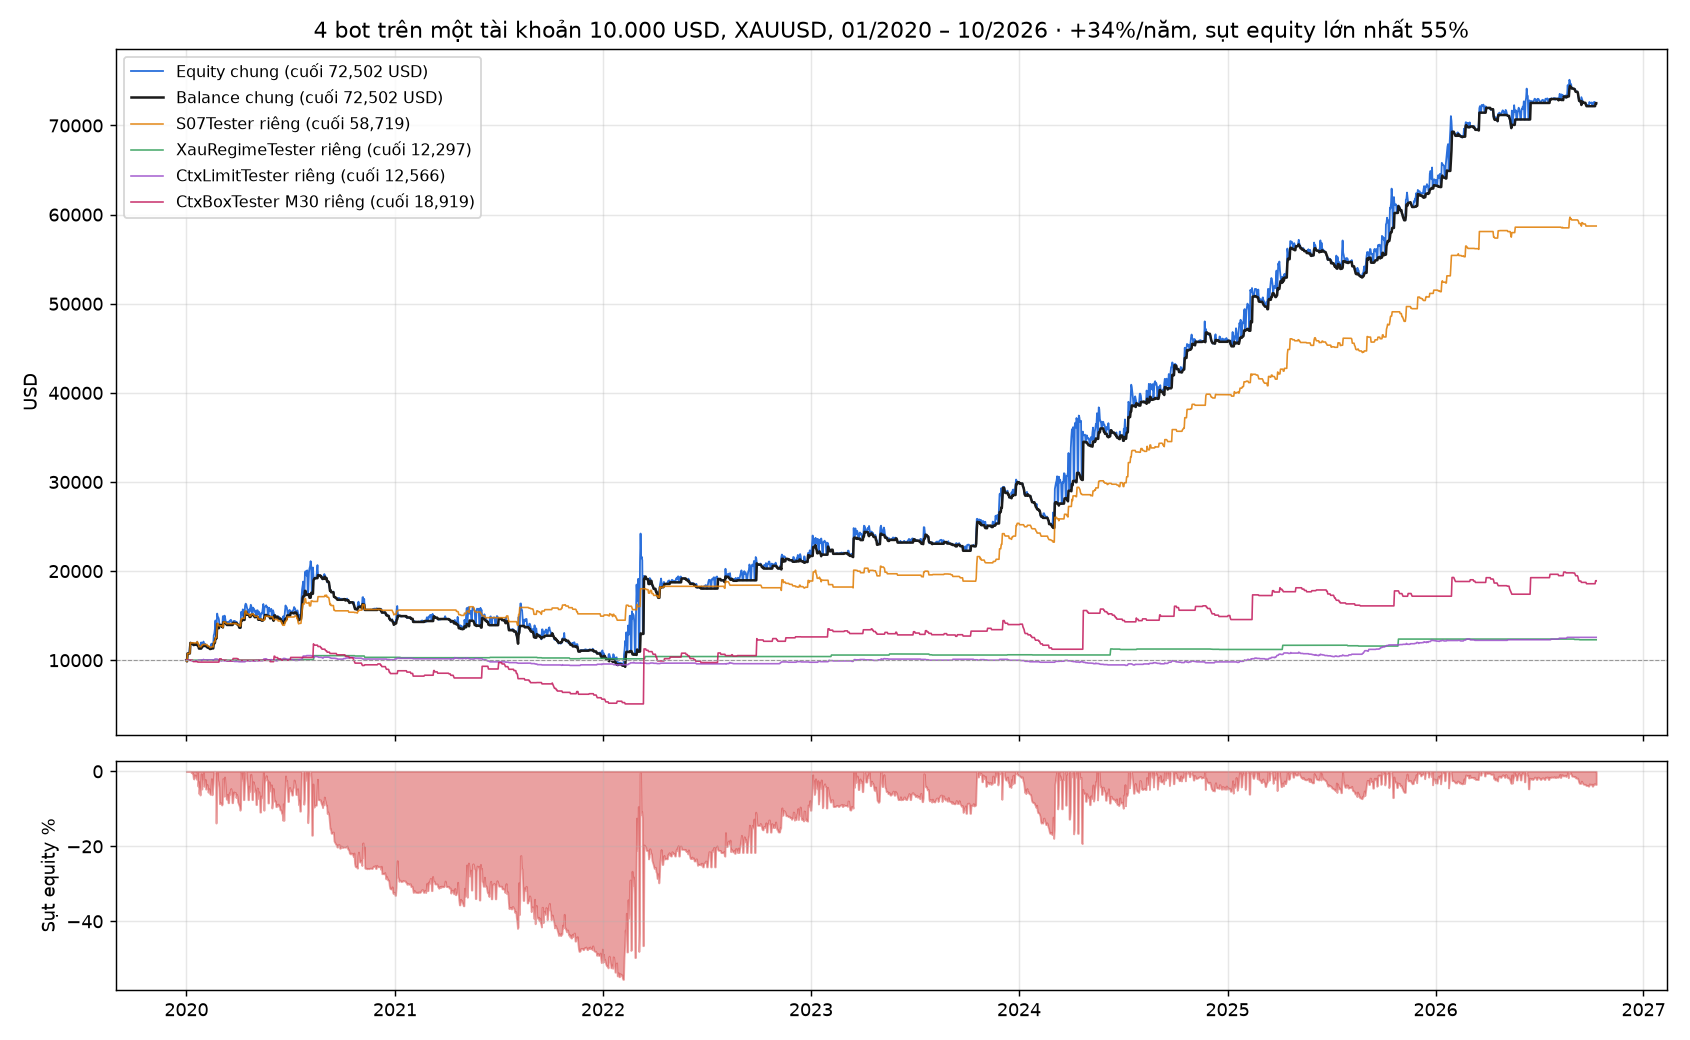
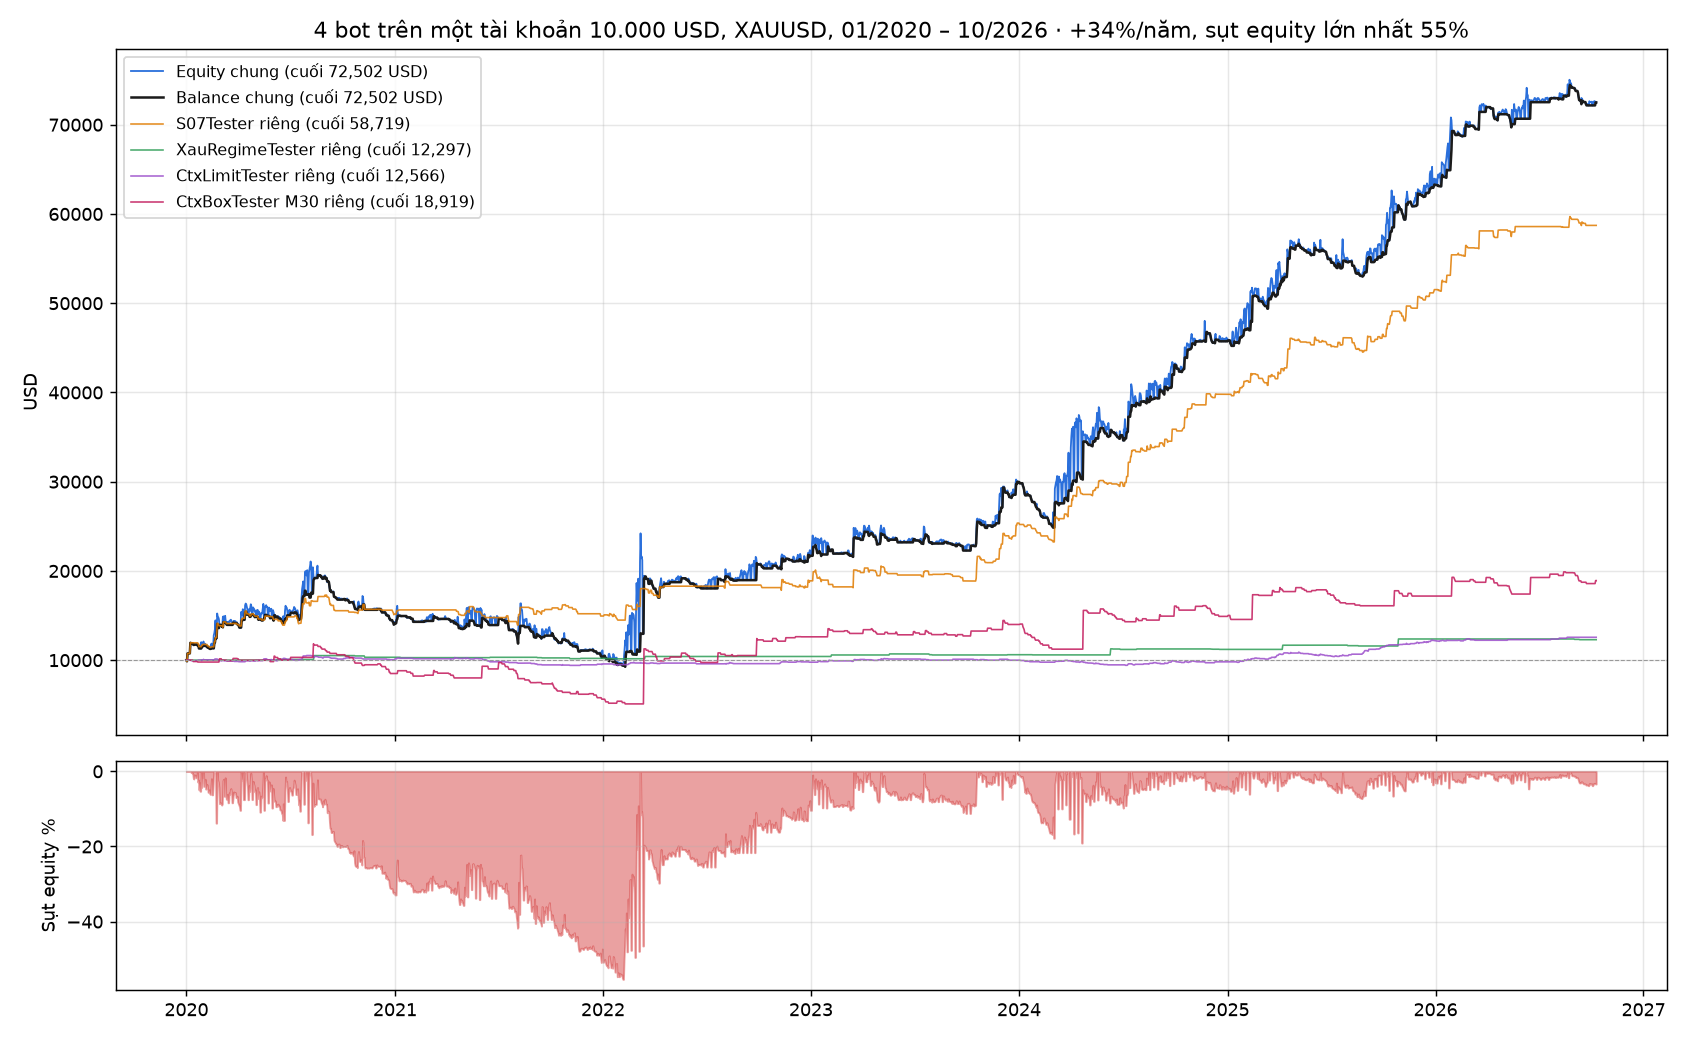
fix: G107 moves S07 legs to server time; G120 combos rebuilt as g120_combo.py. Profits unchanged, combined drawdown +0.5-0.8 pts

diff --git a/EnterpriseEA/research/long/g120_combo.py b/EnterpriseEA/research/long/g120_combo.py
@@ -1,0 +1,133 @@
+"""G120 combos rebuilt: S07 + VHedge (G119 / BIGV) on one 10k account, closed-trade curves, with the S07 legs moved
+from UTC to server time (the earlier ad-hoc comparison mixed UTC S07 exits with server-time VHedge exits).
+
+  python g120_combo.py
+
+S07: G89/G107 port legs (1.5% x weight of 10,000, harsh costs). VHedge: G120 E0 (TP 5R, BE +1R), profiles G119 (stop
+1.5 ATR) and BIGV (1.0 ATR), one unit U = the two stops' gap = 2 leg risks; money per U = 2 x leg risk.
+Window: VHedge groups from 05/2024 to 10/2026; S07 legs entered in the same window. Drawdown = (peak - equity) / peak
+on the closed-trade balance, risk on the initial 10,000 (INITIAL).
+"""
+from __future__ import annotations
+
+import numpy as np
+import pandas as pd
+
+import g116_v_hedge as g
+import g118_v_combos as g118
+import g119_v_m5_native as q
+import g120_vhedge_v2 as v2
+import g107_portfolio as p107
+
+CAPITAL = 10_000.0
+
+
+class SimExit(v2.SimV2):
+    """E0 management of G120 that also records the bar where the last leg closed."""
+
+    def manage(self, t, d, legs, surv_entry, surv_sl, mode, k):
+        o, h, l, c, sp = self.o, self.H0, self.L0, self.c, self.sp
+        R = d * (surv_entry - surv_sl)
+        if R <= 0:
+            return None
+        tp = surv_entry + d * k * R
+        pnl, open_, best, be = 0.0, [True] * len(legs), surv_entry, False
+        end = min(len(c) - 1, t + g.CAP)
+        j = t + 1
+        while j <= end:
+            for i, L in enumerate(legs):
+                if open_[i] and ((d == 1 and l[j] <= L[1]) or (d == -1 and h[j] + sp[j] >= L[1])):
+                    pnl += d * (L[1] - L[0]); open_[i] = False
+            if not any(open_):
+                self.last_j = j
+                return pnl
+            if (d == 1 and h[j] >= tp) or (d == -1 and l[j] + sp[j] <= tp):
+                pnl += sum(d * (tp - L[0]) for i, L in enumerate(legs) if open_[i])
+                self.last_j = j
+                return pnl
+            best = max(best, h[j]) if d == 1 else min(best, l[j])
+            if not be and d * (best - surv_entry) / R >= 1:
+                be = True
+                for L in legs:
+                    if d * (L[0] - L[1]) > 0:
+                        L[1] = L[0]
+            j += 1
+        jj = min(j, end)
+        px = c[jj] + (sp[jj] if d == -1 else 0.0)
+        pnl += sum(d * (px - L[0]) for i, L in enumerate(legs) if open_[i])
+        self.last_j = jj
+        return pnl
+
+    def group(self, v, j, mult):
+        mid = self.o[j + 1]
+        self.h[v], self.l[v] = mid + mult * self.atr[j], mid - mult * self.atr[j]
+        self.last_j = None
+        res = self.hedge(v, j, 0.1, 3, "K", "SAME", "E0", 5.0)
+        self._reset(v)
+        if res is None:
+            return None
+        r, d, t = res
+        x = self.last_j if self.last_j is not None else t
+        return r, int(self.m["time"].iat[x]) + 300
+
+
+def vhedge():
+    m = g118.load("M5")
+    gr = g.find_groups(m)
+    F = q.raw_features(m, gr)
+    BF = q.binarize(F, F[F.t < "2025-01-01"])
+    PF = v2.profiles(BF, v2.m30_context(m, F))
+    S = SimExit(m)
+    out = {}
+    for prof, mult in (("G119", 1.5), ("BIGV", 1.0)):
+        rows = []
+        for k in np.flatnonzero(PF[prof]):
+            v, j = gr[k]
+            res = S.group(v, j, mult)
+            if res is not None:
+                rows.append(dict(t_in=int(m["time"].iat[j + 1]), t_out=res[1], U=res[0]))
+        out[prof] = pd.DataFrame(rows)
+    return out
+
+
+def curve(events):
+    e = events.sort_values("t_out")
+    eq = CAPITAL + np.cumsum(e["usd"].to_numpy())
+    peak = np.maximum.accumulate(np.r_[CAPITAL, eq])[1:]
+    return eq[-1] - CAPITAL, float(((peak - eq) / peak).max())
+
+
+def main():
+    V = vhedge()
+    a = min(x.t_in.min() for x in V.values())
+    L = pd.DataFrame(p107.s07_legs())
+    utc_in = (L.t_in - pd.Timestamp(0)).dt.total_seconds().astype(int)
+    utc_out = (L.t_out - pd.Timestamp(0)).dt.total_seconds().astype(int)
+    srv = p107.s07_to_server(p107.s07_legs())
+    srv_in = np.array([int((x["t_in"] - pd.Timestamp(0)).total_seconds()) for x in srv])
+    srv_out = np.array([int((x["t_out"] - pd.Timestamp(0)).total_seconds()) for x in srv])
+    keep = srv_in >= a
+    s07 = {"UTC (before)": pd.DataFrame({"t_out": utc_out[keep], "r": L.r[keep], "money": L.money[keep]}),
+           "server (fixed)": pd.DataFrame({"t_out": srv_out[keep], "r": L.r[keep], "money": L.money[keep]})}
+    print(f"window from {pd.to_datetime(a, unit='s')}: S07 legs {keep.sum()}, G119 groups {len(V['G119'])}, "
+          f"BIGV groups {len(V['BIGV'])}")
+    rows = []
+    for leg_pct in (0.75, 1.5):
+        for clock, s in s07.items():
+            ev = {"S07": s.assign(usd=s.r * s.money)[["t_out", "usd"]]}
+            for prof, x in V.items():
+                ev[prof] = x.assign(usd=x.U * CAPITAL * 2 * leg_pct / 100)[["t_out", "usd"]]
+            combos = {"S07": ["S07"], "G119": ["G119"], "BIGV": ["BIGV"], "G119+BIGV": ["G119", "BIGV"],
+                      "S07+G119": ["S07", "G119"], "S07+G119+BIGV": ["S07", "G119", "BIGV"]}
+            for name, parts in combos.items():
+                tot, dd = curve(pd.concat([ev[k] for k in parts]))
+                rows.append(dict(leg_pct=leg_pct, s07_clock=clock, combo=name, profit=round(tot), dd_pct=round(100 * dd, 1),
+                                 ratio=round(tot / CAPITAL / dd, 1) if dd > 0 else np.nan))
+    T = pd.DataFrame(rows)
+    T.to_csv(p107.HERE / "out" / "g120_combo.csv", index=False)
+    pd.set_option("display.width", 200)
+    print(T.pivot_table(index=["leg_pct", "combo"], columns="s07_clock", values=["profit", "dd_pct", "ratio"]).to_string())
+
+
+if __name__ == "__main__":
+    main()

diff --git a/EnterpriseEA/research/long/g107_portfolio.py b/EnterpriseEA/research/long/g107_portfolio.py
@@ -183,8 +183,22 @@ def stats(days, eq):
                 worst=s.min())
 
 
+def s07_to_server(rows):
+    """S07 legs carry UTC times (g89 port); the other bots use broker server time (UTC+2, UTC+3 in US DST)."""
+    import g67_dmi_ema as g67
+
+    def shift(ts):
+        u = int((ts - pd.Timestamp(0)).total_seconds())
+        return ts + pd.Timedelta(seconds=10800 if g67.us_dst(u) else 7200)
+
+    for L in rows:
+        L["t_in"], L["t_out"] = shift(L["t_in"]), shift(L["t_out"])
+        L["U"] = pd.DatetimeIndex([shift(t) for t in L["U"]])
+    return rows
+
+
 def main():
-    legs = s07_legs() + xrt_legs() + ctx_legs() + box_legs("M30")
+    legs = s07_to_server(s07_legs()) + xrt_legs() + ctx_legs() + box_legs("M30")
     legs = [L for L in legs if START <= L["t_in"] < END]
     days, balance, equity, per = curves(legs)
     import matplotlib

diff --git a/EnterpriseEA/docs/superpowers/reports/2026-10-16-g107-g120-utc-recheck.md b/EnterpriseEA/docs/superpowers/reports/2026-10-16-g107-g120-utc-recheck.md
@@ -1,0 +1,43 @@
+# Kiểm lại G107 và G120 sau lỗi lệch giờ UTC / giờ server
+
+Ngày 16/10/2026.
+
+**Lỗi:** leg S07 trong bản Python (G89/G107) lưu giờ theo UTC, còn các bot khác (XRT, CTX, BOX, VHedge) dùng giờ server (UTC+2, UTC+3 trong thời gian DST của Mỹ). Lỗi được phát hiện ở G125 V1b.
+
+**Cách kiểm:**
+- Đổi giờ S07 sang giờ server (`g107_portfolio.s07_to_server`), rồi chạy lại đường vốn gộp.
+- Script so sánh S07 + VHedge của G120 trước đây là script tạm, không lưu. Nay viết lại thành `research/long/g120_combo.py`.
+
+## G107 (danh mục nhiều bot, 01/2020 – 10/2026, 10k, INITIAL)
+
+| Danh mục | Lãi cuối | Sụt equity: trước sửa | Sụt equity: sau sửa |
+|---|---|---|---|
+| 3 bot (S07 + XRT + CTX) | 63.582 USD | 24,6% | **24,2%** |
+| 4 bot (+ CtxBox M30) | 72.502 USD | 55,5% | **55,4%** |
+
+Lãi từng bot và theo năm không đổi. Log: `out/g107_before_utc_fix.txt`, `out/g107_after_utc_fix.txt`.
+
+## G120 (S07 + VHedge, 05/2024 – 10/2026, 10k, INITIAL, đường vốn theo lệnh đã đóng)
+
+**Số từng bot riêng khớp báo cáo G120:**
+- G119: +24.306 USD (0,75%/chân), +48.613 USD (1,5%/chân).
+- BIGV: +15.058 / +30.116 USD.
+- G119 + BIGV: +39.364 / +78.729 USD.
+
+S07 trong script mới bắt đầu từ nhóm VHedge đầu tiên (21/05/2024): 441 leg, +28.588 USD, sụt 6,5%. Báo cáo cũ ghi 448 leg, +29.613 USD, sụt 6%, vì cửa sổ bắt đầu sớm hơn vài ngày.
+
+| Rủi ro VHedge | Tổ hợp | Lãi | Sụt vốn: trước sửa | Sụt vốn: sau sửa |
+|---|---|---|---|---|
+| 0,75%/chân | S07 + G119 | +52.894 | 9,4% | **10,2%** |
+| 0,75%/chân | S07 + G119 + BIGV | +67.952 | 13,2% | **13,9%** |
+| 1,5%/chân | S07 + G119 | +77.200 | 13,5% | **14,1%** |
+| 1,5%/chân | S07 + G119 + BIGV | +107.316 | 19,5% | **20,1%** |
+
+Bảng đầy đủ: `out/g120_combo.csv`.
+
+## Kết luận
+
+- **Lãi không đổi.** Lỗi chỉ làm lệch thứ tự cộng lệnh trong vài giờ.
+- **Sụt vốn chạy chung tăng khoảng 0,5–0,8 điểm %.** S07 + VHedge G119 ở 0,75%/chân sụt khoảng **10%**, không phải 9%.
+- **Thứ hạng không đổi:** S07 + G119 vẫn có tỉ lệ lãi/sụt tốt nhất. Thêm BIGV làm sụt vốn tăng nhiều hơn phần lãi thêm.
+- File set đang dùng (G119, 0,75%/chân) vẫn hợp lý.
